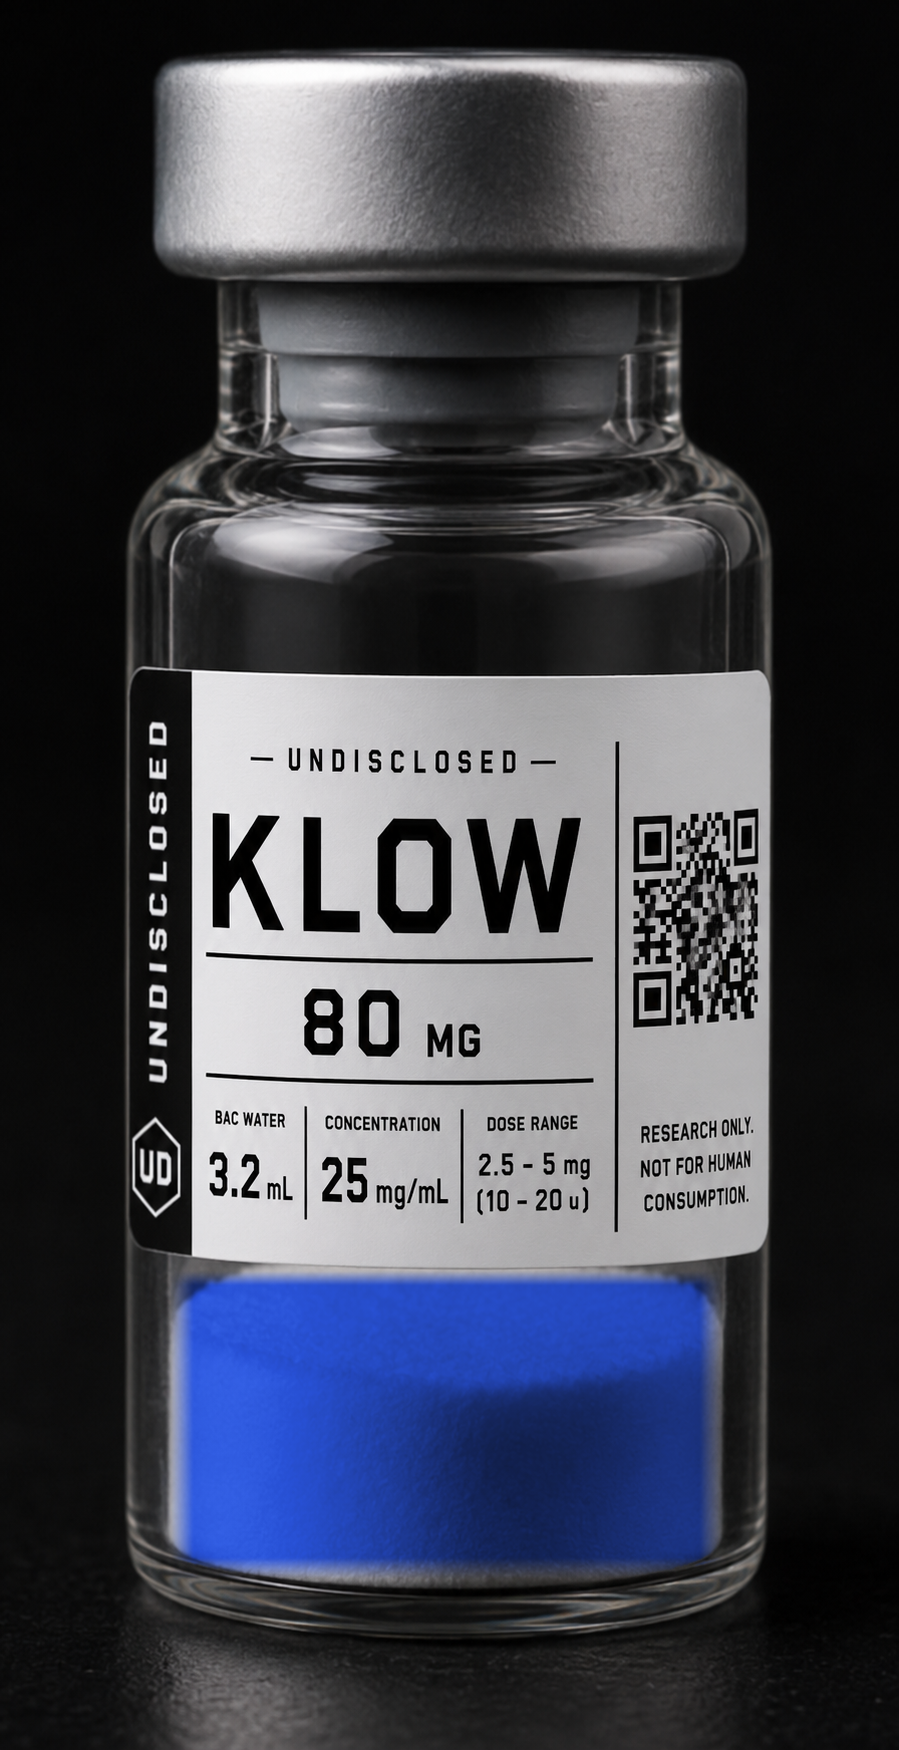
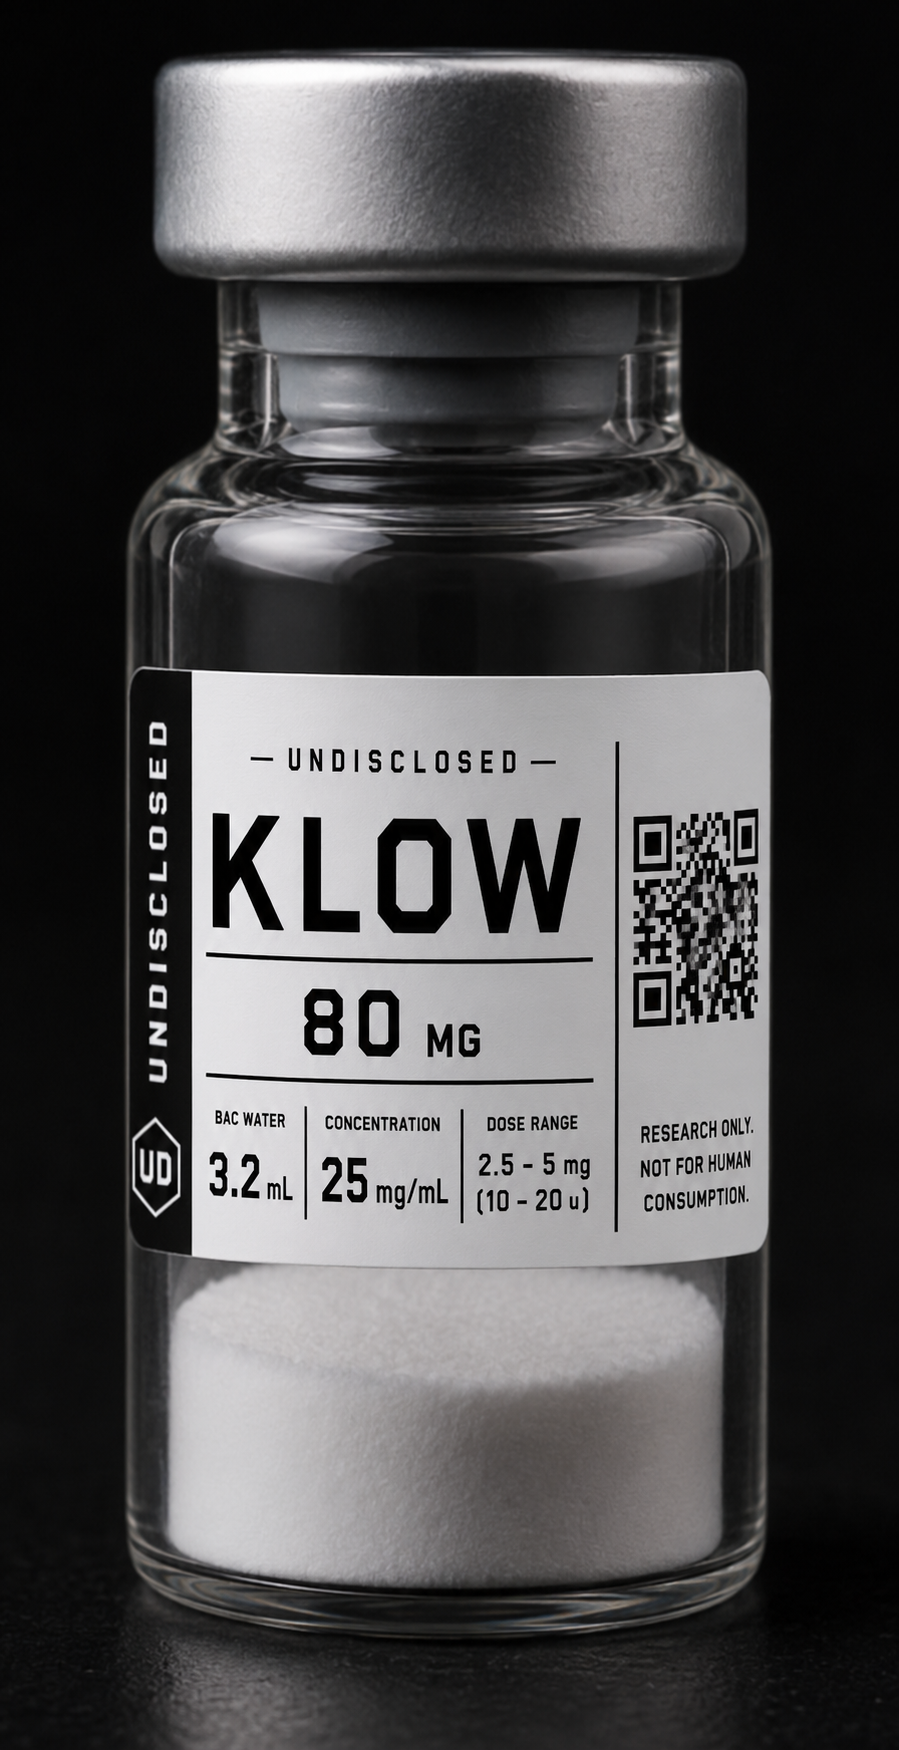
Undo last two image edits on Undisclosed
Restore the original white-powder vial asset and put it back
in the hero; keep the kit cover in featured only.

Changed region(s): [[0.1869, 0.7097, 0.8098, 0.9257]]

diff --git a/src/index.css b/src/index.css
@@ -791,12 +791,12 @@ svg {
   background:
     linear-gradient(
       105deg,
-      rgba(0, 0, 0, 0.88) 0%,
-      rgba(0, 0, 0, 0.55) 34%,
-      rgba(0, 0, 0, 0.18) 58%,
-      rgba(0, 0, 0, 0.08) 100%
+      rgba(0, 0, 0, 0.9) 0%,
+      rgba(0, 0, 0, 0.62) 36%,
+      rgba(0, 0, 0, 0.2) 58%,
+      rgba(0, 0, 0, 0.05) 100%
     ),
-    url("/undisclosed-hero-kit.png") right center / cover no-repeat,
+    url("/undisclosed-brand.png") right 8% center / contain no-repeat,
     #000;
   background-color: #000;
 }
@@ -2966,7 +2966,7 @@ body:has(.app-shell--undisclosed)::before {
     border-top: 1px solid rgba(255, 255, 255, 0.12);
     background:
       #050505
-        url("/undisclosed-hero-kit.png") center / cover no-repeat !important;
+        url("/undisclosed-brand.png") center / contain no-repeat !important;
     display: block !important;
     padding: 0 !important;
   }
@@ -5104,7 +5104,7 @@ body:has(.app-shell--undisclosed)::before {
     min-height: 200px !important;
     max-height: 320px !important;
     border-top: 1px solid rgba(255, 255, 255, 0.12);
-    background: #050505 url("/undisclosed-hero-kit.png") center / cover no-repeat !important;
+    background: #050505 url("/undisclosed-brand.png") center / contain no-repeat !important;
     display: block !important;
     padding: 0 !important;
   }
